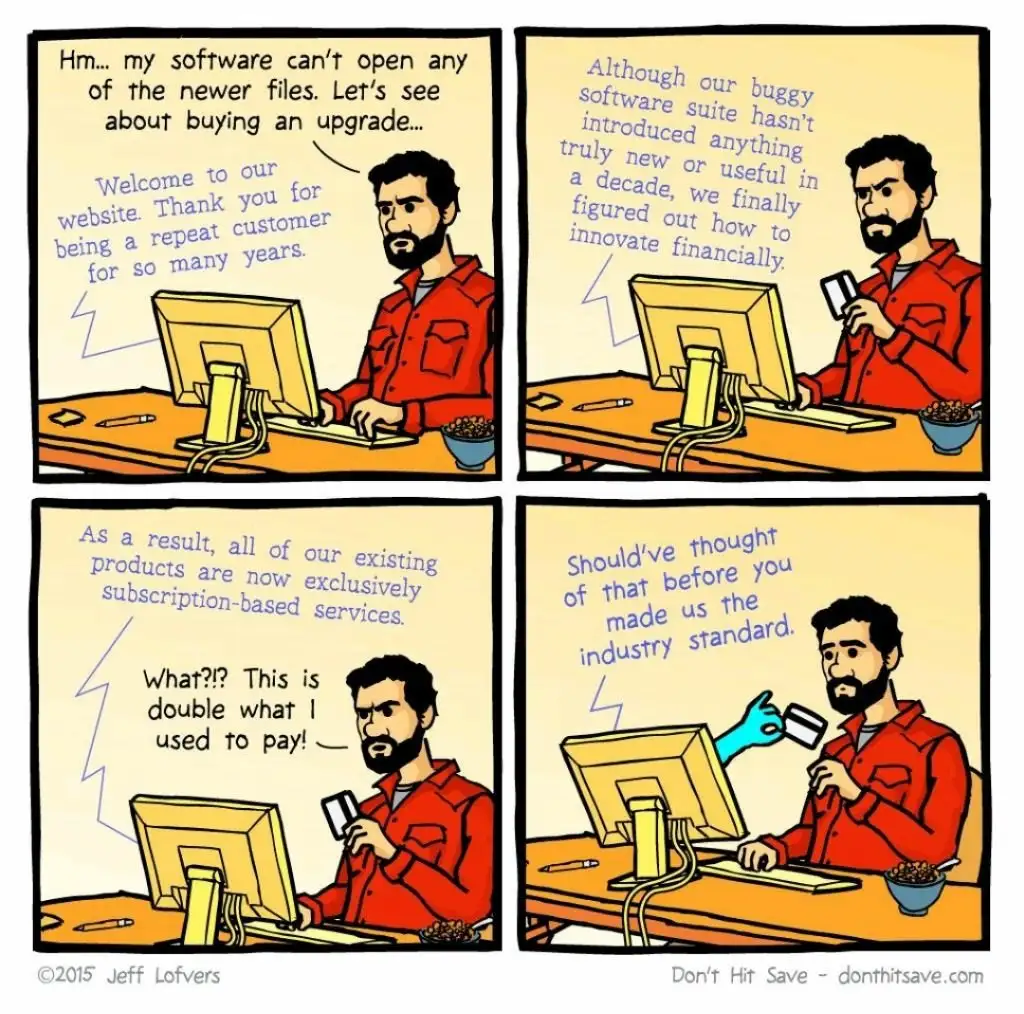
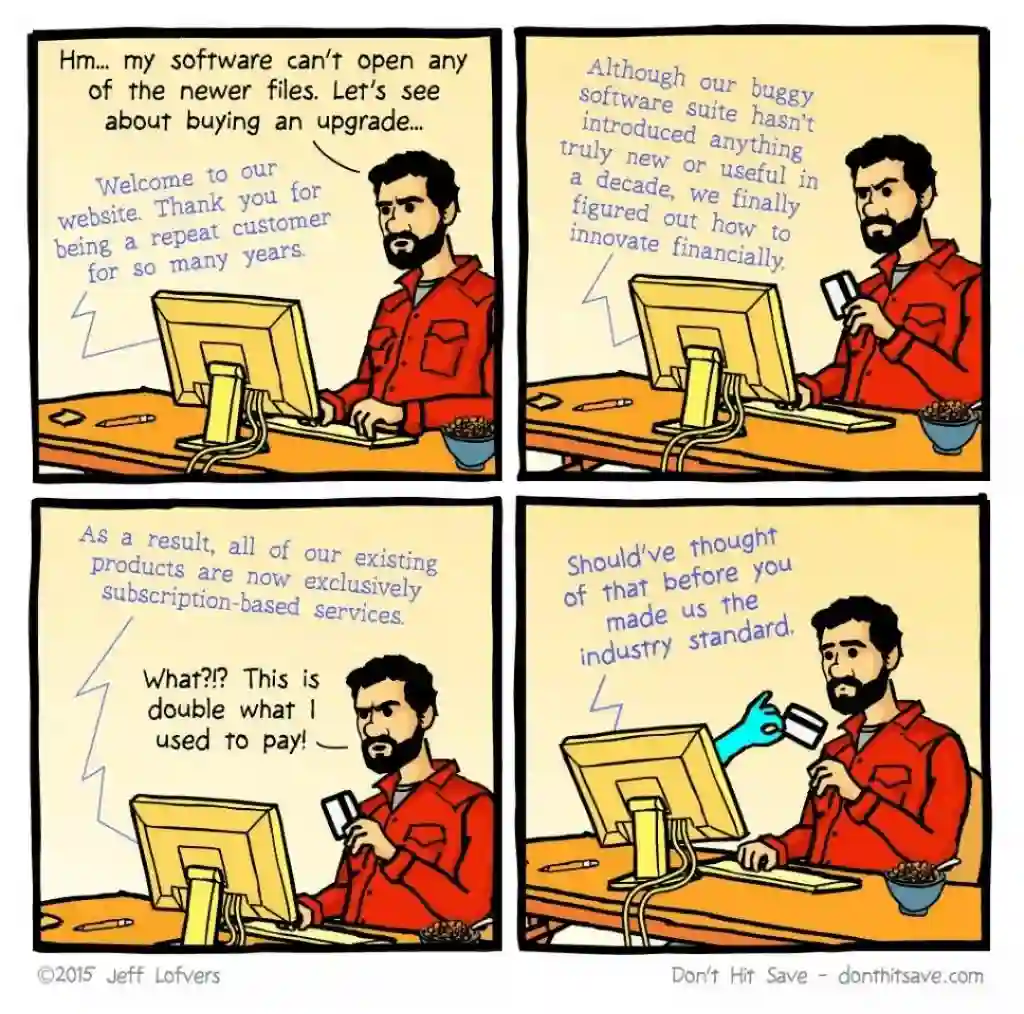
added image sizes

diff --git a/docs/index.html b/docs/index.html
@@ -28,7 +28,7 @@
   <nav class="navbar" role="navigation" aria-label="main navigation">
   <div class="navbar-brand">
     <a class="navbar-item" href="/">
-      <img class="logo" src="/images/logos/exeami-light.webp" id="logo" alt="exeami-logo">
+      <img class="logo" src="/images/logos/exeami-light.webp" width="196" height="196" id="logo" alt="exeami-logo">
     </a>
   </div>
   <button class="theme-switcher-button black-theme-button" data-theme="black-theme">
@@ -59,7 +59,8 @@
         <div class="banner">
   <div class="msg-wrapper h-card">
     <a href="https://exeami.com" class="u-url">
-      <img class="profile-photo u-photo u-logo" id="profile-photo" src="/images/logos/exeami-light.webp" alt="my logo">
+      <img class="profile-photo u-photo u-logo" id="profile-photo" src="/images/logos/exeami-light.webp" width="196"
+        height="196" alt="my logo">
     </a>
     <div class="msg">
       <i>
@@ -76,7 +77,7 @@
       </i>
     </div>
   </div>
-  <img class="profile-picture" src="/images/home/jillu.webp" alt="my picture">
+  <img class="profile-picture" src="/images/home/jillu.webp" alt="my picture" width="339" height="1015">
 </div>
 
       </div>
@@ -84,7 +85,7 @@
         <h1 style="text-align: center;">Recent Blogs</h1>
         <a class="media-box" href="/blogs/data-privacy">
   <figure class="media-figure is-1-by-2">
-    <img class="image" src="/images/blogs//data-privacy/data-privacy.webp" alt="/data-privacy/data-privacy.webp">
+    <img class="image" src="/images/blogs//data-privacy/data-privacy.webp" alt="/data-privacy/data-privacy.webp" width="400" height="200">
   </figure>
   <div class="media-content">
     <h2 class="title">Why should I care about data privacy?</h2>
@@ -97,7 +98,7 @@
   </div>
 </a><a class="media-box" href="/blogs/homomorphic-encryption">
   <figure class="media-figure is-1-by-2">
-    <img class="image" src="/images/blogs//homomorphic-encryption/encryption.webp" alt="/homomorphic-encryption/encryption.webp">
+    <img class="image" src="/images/blogs//homomorphic-encryption/encryption.webp" alt="/homomorphic-encryption/encryption.webp" width="400" height="200">
   </figure>
   <div class="media-content">
     <h2 class="title">Homomorphic Encryption</h2>
@@ -110,7 +111,7 @@
   </div>
 </a><a class="media-box" href="/blogs/why-should-i-switch-to-signal">
   <figure class="media-figure is-1-by-2">
-    <img class="image" src="/images/blogs//why-should-i-switch-to-signal/signal.webp" alt="/why-should-i-switch-to-signal/signal.webp">
+    <img class="image" src="/images/blogs//why-should-i-switch-to-signal/signal.webp" alt="/why-should-i-switch-to-signal/signal.webp" width="400" height="200">
   </figure>
   <div class="media-content">
     <h2 class="title">Why should I switch to Signal?</h2>
@@ -122,7 +123,6 @@
 
   </div>
 </a>
-
       </div>
     </article>
     <div class="theme-box hide-in-mobile">

diff --git a/docs/blogs/why-should-i-switch-to-signal/index.html b/docs/blogs/why-should-i-switch-to-signal/index.html
@@ -28,7 +28,7 @@
   <nav class="navbar" role="navigation" aria-label="main navigation">
   <div class="navbar-brand">
     <a class="navbar-item" href="/">
-      <img class="logo" src="/images/logos/exeami-light.webp" id="logo" alt="exeami-logo">
+      <img class="logo" src="/images/logos/exeami-light.webp" width="196" height="196" id="logo" alt="exeami-logo">
     </a>
   </div>
   <button class="theme-switcher-button black-theme-button" data-theme="black-theme">
@@ -95,21 +95,14 @@
 
     <p>
     <figure class="image media-figure is-1-by-2">
-        <img width="500px" src="/images/blogs/why-should-i-switch-to-signal/Signal_Img1.webp" alt="Signal image"
-            loading="lazy">
+        <img width="500px" src="/images/blogs/why-should-i-switch-to-signal/signal_app.webp" alt="Signal app image"
+            loading="lazy" width="400" height="342">
     </figure>
     </p>
 
     <p>
         Signal has plenty of features too including GIFs, can send your location, and Signal even has disappearing
         messages.Even voice calls on Signal are encrypted and screenshots can be disabled.<br>
-    </p>
-
-    <p>
-    <figure class="image media-figure is-1-by-2">
-        <img width="800px" src="/images/blogs/why-should-i-switch-to-signal/signal_features.webp" alt="Signal image"
-            loading="lazy">
-    </figure>
     </p>
 
     <p class="box">
@@ -127,7 +120,7 @@
         <h1 style="text-align: center;">Recent Blogs</h1>
         <a class="media-box" href="/blogs/data-privacy">
   <figure class="media-figure is-1-by-2">
-    <img class="image" src="/images/blogs//data-privacy/data-privacy.webp" alt="/data-privacy/data-privacy.webp">
+    <img class="image" src="/images/blogs//data-privacy/data-privacy.webp" alt="/data-privacy/data-privacy.webp" width="400" height="200">
   </figure>
   <div class="media-content">
     <h2 class="title">Why should I care about data privacy?</h2>
@@ -140,7 +133,7 @@
   </div>
 </a><a class="media-box" href="/blogs/homomorphic-encryption">
   <figure class="media-figure is-1-by-2">
-    <img class="image" src="/images/blogs//homomorphic-encryption/encryption.webp" alt="/homomorphic-encryption/encryption.webp">
+    <img class="image" src="/images/blogs//homomorphic-encryption/encryption.webp" alt="/homomorphic-encryption/encryption.webp" width="400" height="200">
   </figure>
   <div class="media-content">
     <h2 class="title">Homomorphic Encryption</h2>
@@ -152,7 +145,6 @@
 
   </div>
 </a>
-
       </div>
     </article>
     <div class="theme-box hide-in-mobile">

diff --git a/docs/blogs/index.html b/docs/blogs/index.html
@@ -28,7 +28,7 @@
   <nav class="navbar" role="navigation" aria-label="main navigation">
   <div class="navbar-brand">
     <a class="navbar-item" href="/">
-      <img class="logo" src="/images/logos/exeami-light.webp" id="logo" alt="exeami-logo">
+      <img class="logo" src="/images/logos/exeami-light.webp" width="196" height="196" id="logo" alt="exeami-logo">
     </a>
   </div>
   <button class="theme-switcher-button black-theme-button" data-theme="black-theme">
@@ -59,7 +59,7 @@
 
         <a class="media-box" href="/blogs/data-privacy">
   <figure class="media-figure is-1-by-2">
-    <img class="image" src="/images/blogs//data-privacy/data-privacy.webp" alt="/data-privacy/data-privacy.webp">
+    <img class="image" src="/images/blogs//data-privacy/data-privacy.webp" alt="/data-privacy/data-privacy.webp" width="400" height="200">
   </figure>
   <div class="media-content">
     <h2 class="title">Why should I care about data privacy?</h2>
@@ -72,7 +72,7 @@
   </div>
 </a><a class="media-box" href="/blogs/homomorphic-encryption">
   <figure class="media-figure is-1-by-2">
-    <img class="image" src="/images/blogs//homomorphic-encryption/encryption.webp" alt="/homomorphic-encryption/encryption.webp">
+    <img class="image" src="/images/blogs//homomorphic-encryption/encryption.webp" alt="/homomorphic-encryption/encryption.webp" width="400" height="200">
   </figure>
   <div class="media-content">
     <h2 class="title">Homomorphic Encryption</h2>
@@ -85,7 +85,7 @@
   </div>
 </a><a class="media-box" href="/blogs/why-should-i-switch-to-signal">
   <figure class="media-figure is-1-by-2">
-    <img class="image" src="/images/blogs//why-should-i-switch-to-signal/signal.webp" alt="/why-should-i-switch-to-signal/signal.webp">
+    <img class="image" src="/images/blogs//why-should-i-switch-to-signal/signal.webp" alt="/why-should-i-switch-to-signal/signal.webp" width="400" height="200">
   </figure>
   <div class="media-content">
     <h2 class="title">Why should I switch to Signal?</h2>
@@ -97,7 +97,6 @@
 
   </div>
 </a>
-
       </div>
     </article>
     <div class="theme-box hide-in-mobile">

diff --git a/docs/posts/index.html b/docs/posts/index.html
@@ -28,7 +28,7 @@
   <nav class="navbar" role="navigation" aria-label="main navigation">
   <div class="navbar-brand">
     <a class="navbar-item" href="/">
-      <img class="logo" src="/images/logos/exeami-light.webp" id="logo" alt="exeami-logo">
+      <img class="logo" src="/images/logos/exeami-light.webp" width="196" height="196" id="logo" alt="exeami-logo">
     </a>
   </div>
   <button class="theme-switcher-button black-theme-button" data-theme="black-theme">
@@ -107,7 +107,7 @@
     🔁 Re-Post
   </span>
   <figure class="media-figure">
-  <img class="posts-item" src="/images/posts/low-carb-diet.webp" alt="low-carb-diet.webp" loading="lazy">
+  <img class="posts-item" src="/images/posts/low-carb-diet.webp" alt="low-carb-diet.webp" loading="lazy" width=1100 height=1265>
 </figure>
 <div class="media-content">
   <p>Thank you <strong>Idan Schneider</strong> for the Comic!</p>
@@ -123,7 +123,7 @@
     🔁 Re-Post
   </span>
   <figure class="media-figure">
-  <img class="posts-item" src="/images/posts/printer.webp" alt="printer.webp" loading="lazy">
+  <img class="posts-item" src="/images/posts/printer.webp" alt="printer.webp" loading="lazy" width=880 height="880">
 </figure>
 <div class="media-content">
   <p>Thank you <strong>Andrew</strong> for the Comic!</p>
@@ -139,7 +139,7 @@
     🔁 Re-Post
   </span>
   <figure class="media-figure">
-  <img class="posts-item" src="/images/posts/money.webp" alt="money.webp" loading="lazy">
+  <img class="posts-item" src="/images/posts/money.webp" alt="money.webp" loading="lazy" width=1042 height=1014>
 </figure>
 <div class="media-content">
   <p>Thank you <strong>Jeff Lofvers</strong> for the Comic!</p>
@@ -155,7 +155,7 @@
     🔁 Re-Post
   </span>
   <figure class="media-figure">
-  <img class="posts-item" src="/images/posts/spyingdevice.webp" alt="spyingdevice.webp" loading="lazy">
+  <img class="posts-item" src="/images/posts/spyingdevice.webp" alt="spyingdevice.webp" loading="lazy" width=1024 height=963>
 </figure>
 <div class="media-content">
   <p>Thank you <strong>Zach Weinersmith</strong> for the Comic!</p>

diff --git a/docs/blogs/data-privacy/index.html b/docs/blogs/data-privacy/index.html
@@ -28,7 +28,7 @@
   <nav class="navbar" role="navigation" aria-label="main navigation">
   <div class="navbar-brand">
     <a class="navbar-item" href="/">
-      <img class="logo" src="/images/logos/exeami-light.webp" id="logo" alt="exeami-logo">
+      <img class="logo" src="/images/logos/exeami-light.webp" width="196" height="196" id="logo" alt="exeami-logo">
     </a>
   </div>
   <button class="theme-switcher-button black-theme-button" data-theme="black-theme">
@@ -191,7 +191,7 @@
         <h1 style="text-align: center;">Recent Blogs</h1>
         <a class="media-box" href="/blogs/homomorphic-encryption">
   <figure class="media-figure is-1-by-2">
-    <img class="image" src="/images/blogs//homomorphic-encryption/encryption.webp" alt="/homomorphic-encryption/encryption.webp">
+    <img class="image" src="/images/blogs//homomorphic-encryption/encryption.webp" alt="/homomorphic-encryption/encryption.webp" width="400" height="200">
   </figure>
   <div class="media-content">
     <h2 class="title">Homomorphic Encryption</h2>
@@ -204,7 +204,7 @@
   </div>
 </a><a class="media-box" href="/blogs/why-should-i-switch-to-signal">
   <figure class="media-figure is-1-by-2">
-    <img class="image" src="/images/blogs//why-should-i-switch-to-signal/signal.webp" alt="/why-should-i-switch-to-signal/signal.webp">
+    <img class="image" src="/images/blogs//why-should-i-switch-to-signal/signal.webp" alt="/why-should-i-switch-to-signal/signal.webp" width="400" height="200">
   </figure>
   <div class="media-content">
     <h2 class="title">Why should I switch to Signal?</h2>
@@ -216,7 +216,6 @@
 
   </div>
 </a>
-
       </div>
     </article>
     <div class="theme-box hide-in-mobile">

diff --git a/docs/blogs/homomorphic-encryption/index.html b/docs/blogs/homomorphic-encryption/index.html
@@ -28,7 +28,7 @@
   <nav class="navbar" role="navigation" aria-label="main navigation">
   <div class="navbar-brand">
     <a class="navbar-item" href="/">
-      <img class="logo" src="/images/logos/exeami-light.webp" id="logo" alt="exeami-logo">
+      <img class="logo" src="/images/logos/exeami-light.webp" width="196" height="196" id="logo" alt="exeami-logo">
     </a>
   </div>
   <button class="theme-switcher-button black-theme-button" data-theme="black-theme">
@@ -132,7 +132,7 @@
         <h1 style="text-align: center;">Recent Blogs</h1>
         <a class="media-box" href="/blogs/data-privacy">
   <figure class="media-figure is-1-by-2">
-    <img class="image" src="/images/blogs//data-privacy/data-privacy.webp" alt="/data-privacy/data-privacy.webp">
+    <img class="image" src="/images/blogs//data-privacy/data-privacy.webp" alt="/data-privacy/data-privacy.webp" width="400" height="200">
   </figure>
   <div class="media-content">
     <h2 class="title">Why should I care about data privacy?</h2>
@@ -145,7 +145,7 @@
   </div>
 </a><a class="media-box" href="/blogs/why-should-i-switch-to-signal">
   <figure class="media-figure is-1-by-2">
-    <img class="image" src="/images/blogs//why-should-i-switch-to-signal/signal.webp" alt="/why-should-i-switch-to-signal/signal.webp">
+    <img class="image" src="/images/blogs//why-should-i-switch-to-signal/signal.webp" alt="/why-should-i-switch-to-signal/signal.webp" width="400" height="200">
   </figure>
   <div class="media-content">
     <h2 class="title">Why should I switch to Signal?</h2>
@@ -157,7 +157,6 @@
 
   </div>
 </a>
-
       </div>
     </article>
     <div class="theme-box hide-in-mobile">

diff --git a/docs/posts/low-carb-diet/index.html b/docs/posts/low-carb-diet/index.html
@@ -28,7 +28,7 @@
   <nav class="navbar" role="navigation" aria-label="main navigation">
   <div class="navbar-brand">
     <a class="navbar-item" href="/">
-      <img class="logo" src="/images/logos/exeami-light.webp" id="logo" alt="exeami-logo">
+      <img class="logo" src="/images/logos/exeami-light.webp" width="196" height="196" id="logo" alt="exeami-logo">
     </a>
   </div>
   <button class="theme-switcher-button black-theme-button" data-theme="black-theme">
@@ -63,7 +63,7 @@
       </header>
       <div class="card-body">
         <figure class="media-figure">
-  <img class="posts-item" src="/images/posts/low-carb-diet.webp" alt="low-carb-diet.webp" loading="lazy">
+  <img class="posts-item" src="/images/posts/low-carb-diet.webp" alt="low-carb-diet.webp" loading="lazy" width=1100 height=1265>
 </figure>
 <div class="media-content">
   <p>Thank you <strong>Idan Schneider</strong> for the Comic!</p>

diff --git a/docs/posts/spying-device/index.html b/docs/posts/spying-device/index.html
@@ -28,7 +28,7 @@
   <nav class="navbar" role="navigation" aria-label="main navigation">
   <div class="navbar-brand">
     <a class="navbar-item" href="/">
-      <img class="logo" src="/images/logos/exeami-light.webp" id="logo" alt="exeami-logo">
+      <img class="logo" src="/images/logos/exeami-light.webp" width="196" height="196" id="logo" alt="exeami-logo">
     </a>
   </div>
   <button class="theme-switcher-button black-theme-button" data-theme="black-theme">
@@ -63,7 +63,7 @@
       </header>
       <div class="card-body">
         <figure class="media-figure">
-  <img class="posts-item" src="/images/posts/spyingdevice.webp" alt="spyingdevice.webp" loading="lazy">
+  <img class="posts-item" src="/images/posts/spyingdevice.webp" alt="spyingdevice.webp" loading="lazy" width=1024 height=963>
 </figure>
 <div class="media-content">
   <p>Thank you <strong>Zach Weinersmith</strong> for the Comic!</p>

diff --git a/content/blogs/why-should-i-switch-to-signal.html b/content/blogs/why-should-i-switch-to-signal.html
@@ -30,21 +30,14 @@
 
     <p>
     <figure class="image media-figure is-1-by-2">
-        <img width="500px" src="/images/blogs/why-should-i-switch-to-signal/Signal_Img1.webp" alt="Signal image"
-            loading="lazy">
+        <img width="500px" src="/images/blogs/why-should-i-switch-to-signal/signal_app.webp" alt="Signal app image"
+            loading="lazy" width="400" height="342">
     </figure>
     </p>
 
     <p>
         Signal has plenty of features too including GIFs, can send your location, and Signal even has disappearing
         messages.Even voice calls on Signal are encrypted and screenshots can be disabled.<br>
-    </p>
-
-    <p>
-    <figure class="image media-figure is-1-by-2">
-        <img width="800px" src="/images/blogs/why-should-i-switch-to-signal/signal_features.webp" alt="Signal image"
-            loading="lazy">
-    </figure>
     </p>
 
     <p class="box">

diff --git a/docs/posts/printer/index.html b/docs/posts/printer/index.html
@@ -28,7 +28,7 @@
   <nav class="navbar" role="navigation" aria-label="main navigation">
   <div class="navbar-brand">
     <a class="navbar-item" href="/">
-      <img class="logo" src="/images/logos/exeami-light.webp" id="logo" alt="exeami-logo">
+      <img class="logo" src="/images/logos/exeami-light.webp" width="196" height="196" id="logo" alt="exeami-logo">
     </a>
   </div>
   <button class="theme-switcher-button black-theme-button" data-theme="black-theme">
@@ -63,7 +63,7 @@
       </header>
       <div class="card-body">
         <figure class="media-figure">
-  <img class="posts-item" src="/images/posts/printer.webp" alt="printer.webp" loading="lazy">
+  <img class="posts-item" src="/images/posts/printer.webp" alt="printer.webp" loading="lazy" width=880 height="880">
 </figure>
 <div class="media-content">
   <p>Thank you <strong>Andrew</strong> for the Comic!</p>

diff --git a/docs/posts/money/index.html b/docs/posts/money/index.html
@@ -28,7 +28,7 @@
   <nav class="navbar" role="navigation" aria-label="main navigation">
   <div class="navbar-brand">
     <a class="navbar-item" href="/">
-      <img class="logo" src="/images/logos/exeami-light.webp" id="logo" alt="exeami-logo">
+      <img class="logo" src="/images/logos/exeami-light.webp" width="196" height="196" id="logo" alt="exeami-logo">
     </a>
   </div>
   <button class="theme-switcher-button black-theme-button" data-theme="black-theme">
@@ -63,7 +63,7 @@
       </header>
       <div class="card-body">
         <figure class="media-figure">
-  <img class="posts-item" src="/images/posts/money.webp" alt="money.webp" loading="lazy">
+  <img class="posts-item" src="/images/posts/money.webp" alt="money.webp" loading="lazy" width=1042 height=1014>
 </figure>
 <div class="media-content">
   <p>Thank you <strong>Jeff Lofvers</strong> for the Comic!</p>

diff --git a/content/index.html b/content/index.html
@@ -1,7 +1,8 @@
 <div class="banner">
   <div class="msg-wrapper h-card">
     <a href="https://exeami.com" class="u-url">
-      <img class="profile-photo u-photo u-logo" id="profile-photo" src="/images/logos/exeami-light.webp" alt="my logo">
+      <img class="profile-photo u-photo u-logo" id="profile-photo" src="/images/logos/exeami-light.webp" width="196"
+        height="196" alt="my logo">
     </a>
     <div class="msg">
       <i>
@@ -18,5 +19,5 @@
       </i>
     </div>
   </div>
-  <img class="profile-picture" src="/images/home/jillu.webp" alt="my picture">
+  <img class="profile-picture" src="/images/home/jillu.webp" alt="my picture" width="339" height="1015">
 </div>
